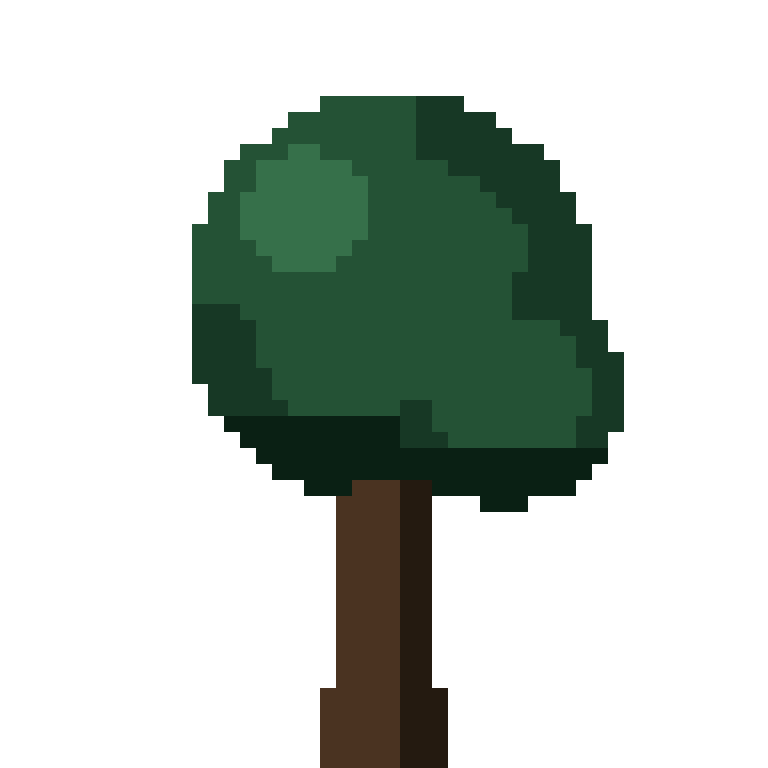
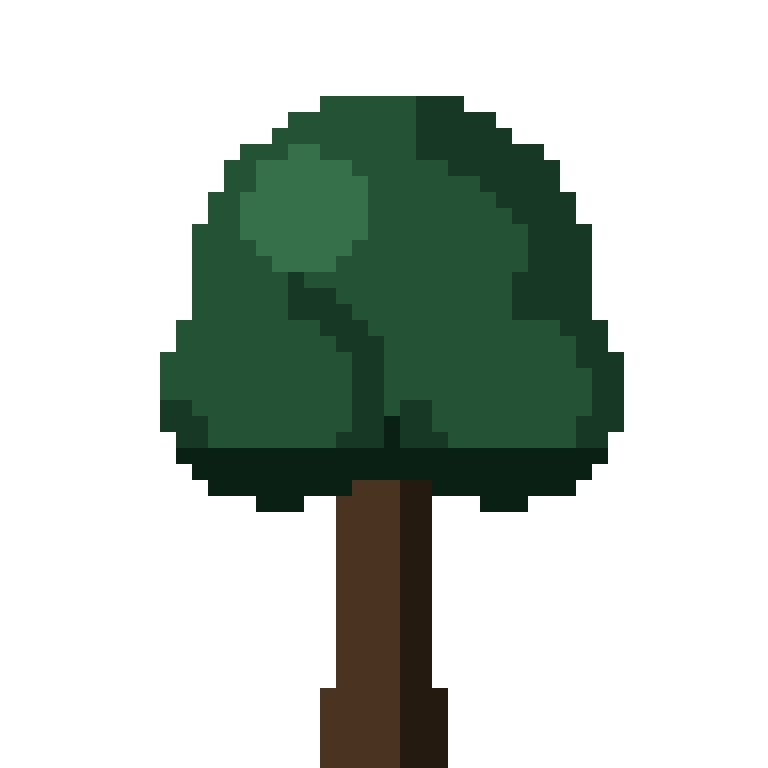
fix(garden): mirror the round crown's shoulder lobe, mix the near/far rim
The two things named as ruined -- the trunk's shaded side and the pine's tiers --
both came back with the v35.2 revert and are untouched here. The point of this
release is to fix the one real defect and change nothing else about the artwork.

blob(cx + n*0.15 * (1 if rb(2) else -1), ...) put the round broadleaf's shoulder
lobe on one randomly chosen side, so a bump grew out of one shoulder with nothing
opposite it. There is a lobe on each side now, and that single line is the whole
generator change. Per-lobe shading stays exactly as it was, which is what keeps
the tiers (each blob's own rim is a step) and the trunk's darker side. v35.1 also
"fixed" symmetry, by unifying the shading and centring the highlight, and that is
precisely what flattened the trees -- lobe placement was always the only
asymmetry that mattered.

Measured after: the largest left/right ink imbalance across the twenty sprites is
7.9%, and that residue is the half-pixel offset from blobs centring on n/2 rather
than (n-1)/2 -- a uniform sub-pixel bias, not a bump. Left alone deliberately;
correcting it would shift every sprite, and these are the shapes that were asked
for back.

The near and far rim was 80% bush, and a bush is a squat little tree, so the row
read as the same plant repeated along the whole edge. It gets the flanks' mix
minus the trees now: bushes at 56 points of the roll, rocks at the remaining 12.
Rocks were pulled from these edges in v34.18 over the soil-slab lip, which cost
[…]

Changed region(s): [[0.1875, 0.3438, 0.5, 0.6875]]

diff --git a/flutter/test/engine_test.dart b/flutter/test/engine_test.dart
@@ -331,20 +331,28 @@ void main() {
       }
     });
 
-    test('no rocks against the near and far edges', () {
-      // "tas havada duruyor": the plot's soil slab hangs below its edge, and a
-      // rock one tile out is short enough that its sprite straddles the slab's
-      // lower lip — so it reads as stuck to the side of the raised bed rather
-      // than standing on the forest floor. A bush clears the slab.
+    test('the near and far rim is a mix, not one repeated plant', () {
+      // "üst tarafta birinci satirda gereginden fazla kücük agac oluyor ... sol
+      // ve sag taraf gibi yapalim" (#v35.3). These edges used to be 80% bush,
+      // and a bush IS a squat little tree, so the whole row read as the same
+      // plant over and over. They get the flanks' mix minus the trees now — a
+      // 2-tile tree one tile out still reaches 1.5 tiles up over the clearing,
+      // which is why the trees stay on the flanks only.
+      var bushes = 0, rocks = 0, trees = 0;
       for (var r = -1; r <= rows; r++) {
         for (var c = -1; c <= cols; c++) {
           if (tilesOutsidePlot(c, r, cols, rows) != 1) continue;
           if (isPlotSideTile(c, r, cols, rows)) continue;
           final id = forestPropAt(c, r, cols, rows);
-          expect(id?.startsWith('rock_') ?? false, false,
-              reason: '$id at ($c,$r) is a rock against the slab');
+          if (id == null) continue;
+          if (id.startsWith('bush_')) bushes++;
+          if (id.startsWith('rock_')) rocks++;
+          if (id.startsWith('tree_')) trees++;
         }
       }
+      expect(trees, 0, reason: 'a tree here leans 1.5 tiles over the clearing');
+      expect(rocks, greaterThan(0), reason: 'the rim has no rocks in it at all');
+      expect(bushes, greaterThan(rocks), reason: 'the rim is mostly rock now');
     });
 
     test('identical props almost never touch', () {

diff --git a/flutter/lib/engine/garden_engine.dart b/flutter/lib/engine/garden_engine.dart
@@ -341,12 +341,19 @@ String? _innerRingRaw(int c, int r, int cols, int rows) {
     if (bucket < 88) return id('bush', kForestBushes);
     return id('rock', kForestRocks);
   }
-  // The near and far edges take NO rocks (#v34.18). The plot's soil slab hangs
-  // below its edge, and a rock one tile out is short enough that its sprite
-  // straddles the slab's lower lip — so it reads as a pebble stuck to the side
-  // of the raised bed rather than sitting on the ground: "tas havada duruyor".
-  // A bush is tall enough to clear the slab and read as standing on the floor.
-  return id('bush', kForestBushes);
+  // The near and far edges get the flanks' MIX minus the trees (#v35.3) —
+  // "üst tarafta birinci satirda gereginden fazla kücük agac oluyor ... sol ve
+  // sag taraf gibi yapalim". They were 80% bush, and a bush is a squat little
+  // tree, so the whole row read as one repeated plant.
+  //
+  // Rocks come back here with the same share the flanks give them. They were
+  // pulled in #v34.18 because a rock one tile out straddles the soil slab's
+  // lower lip on whichever edge faces the camera — but that cost the row all
+  // its variety on BOTH edges to fix one, and the low bushes have the same
+  // problem to a lesser degree anyway. No trees: a 2-tile tree here still
+  // reaches 1.5 tiles up over the clearing.
+  if (bucket < 76) return id('bush', kForestBushes);
+  return id('rock', kForestRocks);
 }
 
 /// The tile hard against the clearing (#v34.17), with the rim tidied (#v34.18).

diff --git a/flutter/android_overlay/kotlin/com/pixelpomo/pixel_pomo/GardenRenderer.kt b/flutter/android_overlay/kotlin/com/pixelpomo/pixel_pomo/GardenRenderer.kt
@@ -689,9 +689,9 @@ class GardenRenderer(private val data: GardenData) {
                 else -> id("rock", 5)
             }
         }
-        // no rocks on the near/far edges: the soil slab hangs below the plot's
-        // edge and a rock one tile out straddles its lower lip (#v34.18)
-        return id("bush", 10)
+        // the near/far edges get the flanks' mix minus the trees (#v35.3) —
+        // 80% bush read as one repeated plant along the whole row
+        return if (bucket < 76) id("bush", 10) else id("rock", 5)
     }
 
     /** Mirrors _innerRingProp in garden_engine.dart: no bald patch where the

diff --git a/flutter/tools/gen_objects.py b/flutter/tools/gen_objects.py
@@ -323,10 +323,19 @@ def _tree_variant(seed):
         blob(cx + n * 0.18, n * 0.46, n * 0.18, highlight=False)
         trunk_top = n * 0.68
     else:
-        # ROUND broadleaf — one crown plus a small shoulder lobe (no highlight
-        # of its own, or it reads as a hole punched in the canopy)
+        # ROUND broadleaf — one crown plus a shoulder lobe on EACH side (no
+        # highlight of their own, or they read as holes punched in the canopy).
+        #
+        # The lobe used to land on one randomly chosen side
+        # (`cx + n*0.15 * (1 if rb(2) else -1)`), which is the "bir tarafi cikik"
+        # tree: a bump growing out of one shoulder with nothing opposite it.
+        # Mirrored here and NOWHERE else — the per-lobe shading stays exactly as
+        # it was, so the pine keeps its tiers and the trunk keeps its shaded
+        # side. Those two are what #v34.17-#v35.1 destroyed, and this is the one
+        # asymmetry that was ever the complaint (#v35.3).
         blob(cx, n * 0.38, n * 0.27)
-        blob(cx + n * 0.15 * (1 if rb(2) else -1), n * 0.50, n * 0.15, highlight=False)
+        blob(cx - n * 0.15, n * 0.50, n * 0.15, highlight=False)
+        blob(cx + n * 0.15, n * 0.50, n * 0.15, highlight=False)
         trunk_top = n * 0.72
 
     # Trunk: start it INSIDE the canopy, not at a guessed fraction of the
